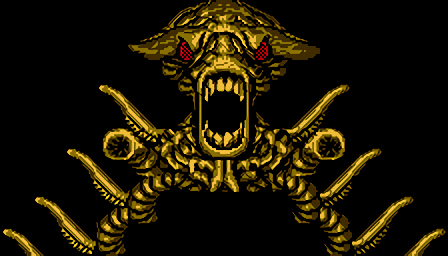
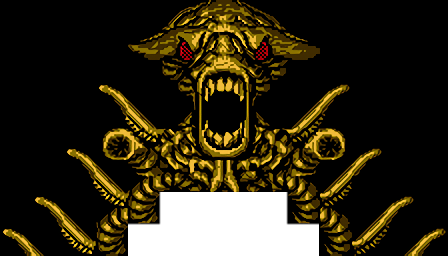
Boss now spawns

Changed region(s): [[0.2812, 0.75, 0.7188, 1.0]]

diff --git a/Contra2D/Contra2D/source/Scene.cpp b/Contra2D/Contra2D/source/Scene.cpp
@@ -140,6 +140,11 @@ void Scene::update(int deltaTime)
 		if (boss != NULL) boss->update(deltaTime);
 		player->update(deltaTime);
 		if (!victory) checkVictory();
+
+		//Specific level behaviours
+		if (activeLevel == 3) {
+			if (boss == NULL && player->sharePosition().x >= (map->getLevelWidth() - 400.0f)) initBoss();
+		}
 	}
 	else mainMenu.update(deltaTime);
 }
@@ -220,53 +225,58 @@ void Scene::initBoss() {
 }
 
 void Scene::initEnemies() {
-	int number_of_enemies = 11; //cuantos enemigos hay en el nivel
-	for (int i = 0; i < number_of_enemies; ++i) {
-		int enemy_x;
-		int enemy_y;
-		int typeofEnemy;
-		switch (i+1) { //enemy_list
-			case 1:
-				enemy_x = 10; enemy_y = 5; typeofEnemy = TURRET;//PRIZE
-				break;
-			case 2:
-				enemy_x = 40; enemy_y = 5; typeofEnemy = TURRET;
-				break;
-			case 3:
-				enemy_x = 50; enemy_y = 5; typeofEnemy = TURRET;//PRIZE
-				break;
-			case 4:
-				enemy_x = 52; enemy_y = 4; typeofEnemy = TURRET;
-				break;
-			case 5:
-				enemy_x = 58; enemy_y = 4; typeofEnemy = TURRET;
-				break;
-			case 6:
-				enemy_x = 65; enemy_y = 5; typeofEnemy = TURRET;
-				break;
-			case 7:
-				enemy_x = 69; enemy_y = 2; typeofEnemy = TURRET;
-				break;
-			case 8:
-				enemy_x = 72; enemy_y = 6; typeofEnemy = TURRET;//PRIZE
-				break;
-			case 9:
-				enemy_x = 94; enemy_y = 6; typeofEnemy = TURRET;
-				break;
-			case 10:
-				enemy_x = 98; enemy_y = 6; typeofEnemy = TURRET;
-				break;
-			case 11:
-				enemy_x = 5; enemy_y = 3; typeofEnemy = SOLDIER_GROUND;
-				break;
+	switch (activeLevel){
+	case 1:
+		int number_of_enemies = 11; //cuantos enemigos hay en el nivel
+		for (int i = 0; i < number_of_enemies; ++i) {
+			int enemy_x;
+			int enemy_y;
+			int typeofEnemy;
+			switch (i + 1) { //enemy_list
+				case 1:
+					enemy_x = 10; enemy_y = 5; typeofEnemy = TURRET;//PRIZE
+					break;
+				case 2:
+					enemy_x = 40; enemy_y = 5; typeofEnemy = TURRET;
+					break;
+				case 3:
+					enemy_x = 50; enemy_y = 5; typeofEnemy = TURRET;//PRIZE
+					break;
+				case 4:
+					enemy_x = 52; enemy_y = 4; typeofEnemy = TURRET;
+					break;
+				case 5:
+					enemy_x = 58; enemy_y = 4; typeofEnemy = TURRET;
+					break;
+				case 6:
+					enemy_x = 65; enemy_y = 5; typeofEnemy = TURRET;
+					break;
+				case 7:
+					enemy_x = 69; enemy_y = 2; typeofEnemy = TURRET;
+					break;
+				case 8:
+					enemy_x = 72; enemy_y = 6; typeofEnemy = TURRET;//PRIZE
+					break;
+				case 9:
+					enemy_x = 94; enemy_y = 6; typeofEnemy = TURRET;
+					break;
+				case 10:
+					enemy_x = 98; enemy_y = 6; typeofEnemy = TURRET;
+					break;
+				case 11:
+					enemy_x = 5; enemy_y = 3; typeofEnemy = SOLDIER_GROUND;
+					break;
+			}
+			Enemy *enemy_aux;
+			enemy_aux = new Enemy();
+			enemy_aux->init(glm::ivec2(SCREEN_X, SCREEN_Y), texProgram, player, typeofEnemy, &bulletManager);
+			enemy_aux->setTileMap(map);
+			enemy_aux->setPosition(glm::vec2(enemy_x * map->getTileSize(), enemy_y * map->getTileSize()));
+			enemyList.push_back(enemy_aux);
 		}
-		Enemy *enemy_aux;
-		enemy_aux = new Enemy();
-		enemy_aux->init(glm::ivec2(SCREEN_X, SCREEN_Y), texProgram, player, typeofEnemy, &bulletManager);
-		enemy_aux->setTileMap(map);
-		enemy_aux->setPosition(glm::vec2(enemy_x * map->getTileSize(), enemy_y * map->getTileSize()));
-		enemyList.push_back(enemy_aux);
+		break;
 	}
+	
 }
 
 void Scene::initMainMenu() {

diff --git a/Contra2D/Contra2D/source/Boss.cpp b/Contra2D/Contra2D/source/Boss.cpp
@@ -1,14 +1,21 @@
 #include "Boss.h"
 
+enum BossAnims
+{
+	INTRO, PHASE1, PHASE2, PHASE3
+};
+
+enum MouthAnims
+{
+	OPEN, CLOSE
+};
 
 void Boss::init(const glm::vec2 &tileMapPos, ShaderProgram &shaderProgram, Player *target, BulletManager *bulletManager)
 {
 	spritesheet.loadFromFile("images/bossbase2x.png", TEXTURE_PIXEL_FORMAT_RGBA);
 	bossBaseSprite = Sprite::createSprite(glm::ivec2(448, 256), glm::vec2(1.0f, 1.0f), &spritesheet, &shaderProgram);
-	bossBaseSprite->setPosition(glm::vec2(200.0f, 0.0f));
-	bossHealth = 50;
-	leftHealth = 15;
-	rightHealth = 15;
+	bossBaseSprite->setPosition(glm::vec2(1952.0f - map->getScroll(), 0.0f));
+	bossHealth = 75;
 	bM = bulletManager;
 	cutsceneDelay = 120;
 	isInvincible = true;
@@ -55,14 +62,13 @@ void Boss::update(int deltaTime) {
 		}
 		else {
 			//AI
-			if (leftHealth <= 0) {
-				if (rightHealth <= 0) phase3();
-				else phase2();
-			}
-			else if (rightHealth <= 0) phase2();
+			if (bossHealth <= 25) phase3();
+			else if (bossHealth <= 50) phase2();
 			else phase1();
 		}
-	}}
+	}
+	bossBaseSprite->setPosition(glm::vec2(1952.0f - map->getScroll(), 0.0f));
+}
 
 bool Boss::isBossDefeated() {
 	return (isDefeated && cutsceneDelay <= 0);

diff --git a/Contra2D/Contra2D/source/Boss.h b/Contra2D/Contra2D/source/Boss.h
@@ -25,15 +25,15 @@ public:
 private:
 
 	bool isInvincible, isDefeated;
-	int bossHealth, leftHealth, rightHealth;
+	int bossHealth;
 	int cutsceneDelay;
 
 	BulletManager *bM;
 	SoundManager sound;
 
-	Texture spritesheet;
+	Texture spritesheet, spritesheet2;
 	TileMap *map;
-	Sprite *bossBaseSprite;
+	Sprite *bossBaseSprite, *bossMouthSprite;
 };
 
 #endif

diff --git a/Contra2D/Contra2D/source/Player.cpp b/Contra2D/Contra2D/source/Player.cpp
@@ -211,7 +211,7 @@ void Player::movement() {
 	{
 		left = true;
 		posPlayer.x -= 2.5;
-		if (map->collisionMoveLeft(posPlayer, glm::ivec2(64, 128)))
+		if (map->collisionMoveLeft(posPlayer, glm::ivec2(64, 128)) || posPlayer.x <= map->getScroll())
 		{
 			posPlayer.x += 2.5;
 			sprite->changeAnimation(STAND_LEFT);
